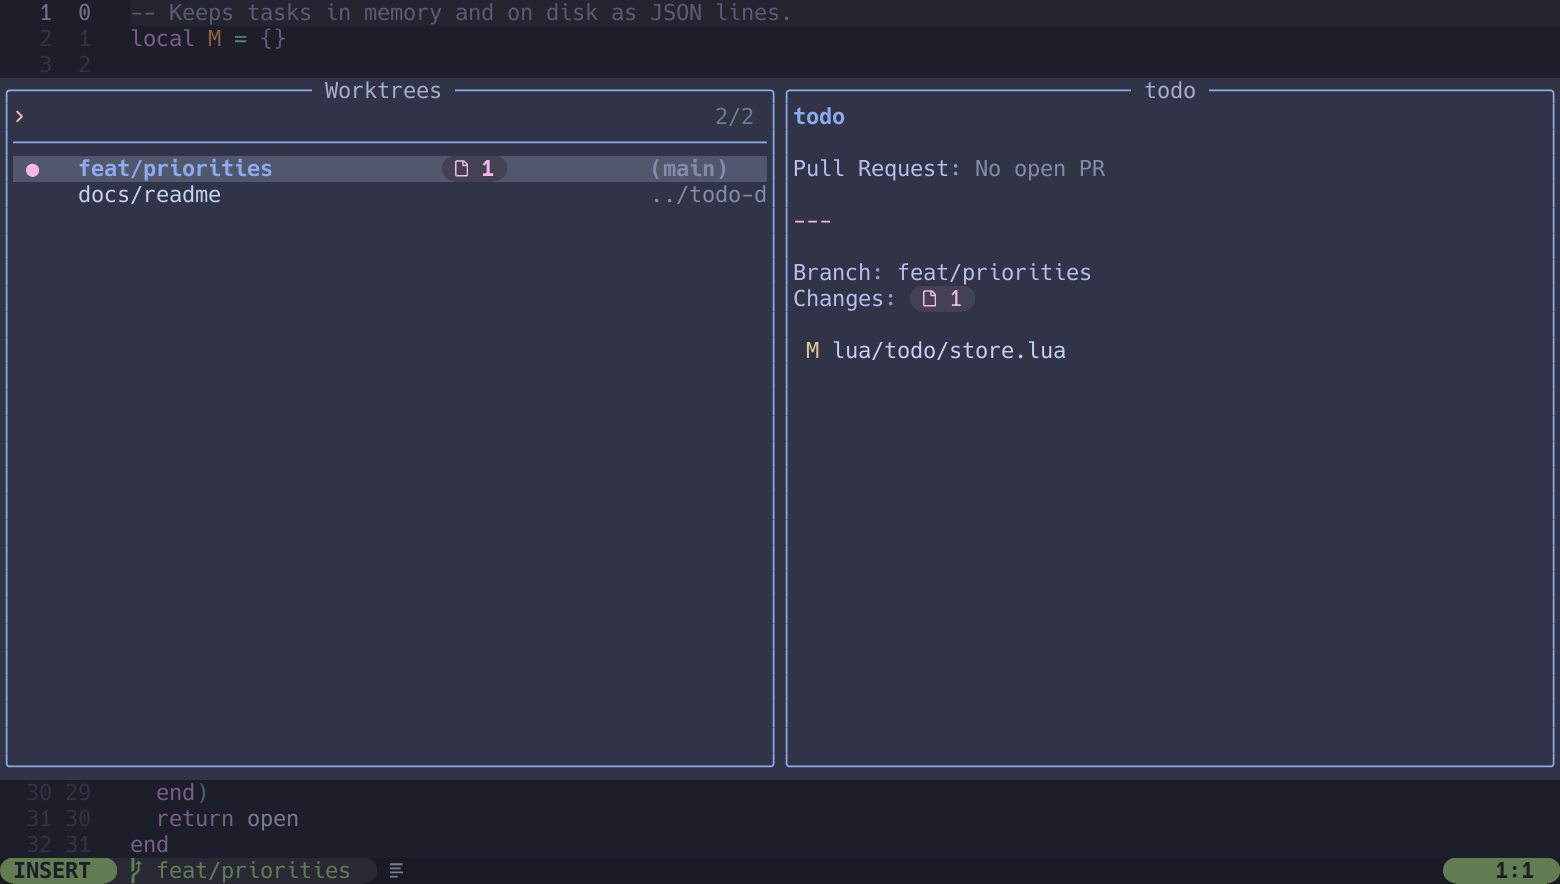
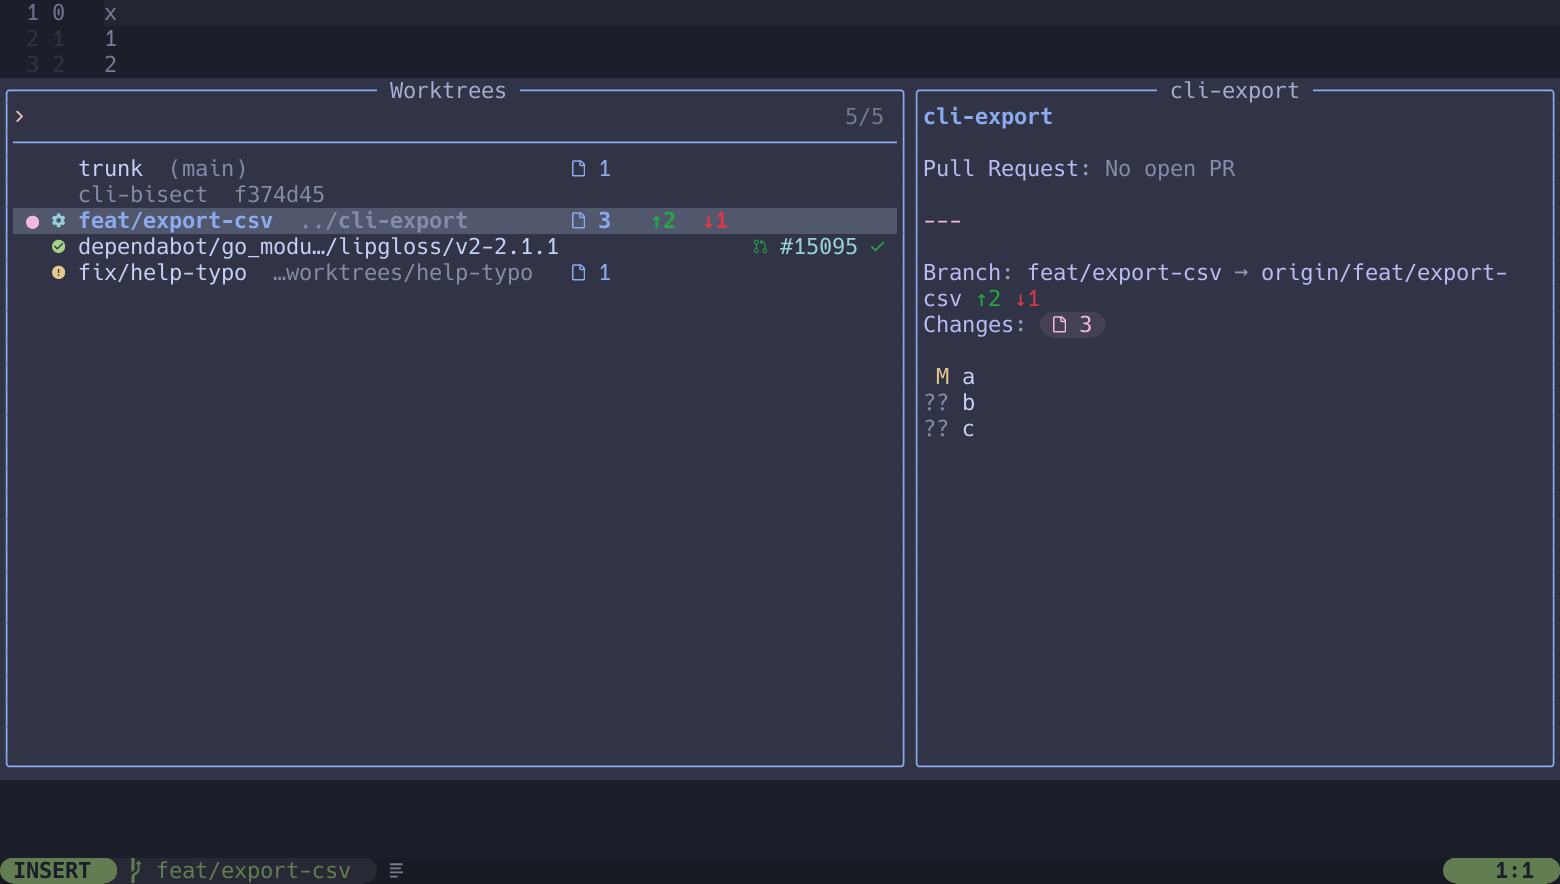
docs: show the new worktree list in the README

diff --git a/README.md b/README.md
@@ -177,7 +177,11 @@ Inside herdr, each worktree has its own herdr tab (Claude and nvim). Outside her
 Use herdr to move around: `Ctrl-b h`/`l` between chat and nvim, `Ctrl-b z` to zoom a pane, `Ctrl-b b` for the sidebar.
 Any worktree git knows about is listed: sibling folders, `.worktrees/`, `.claude/worktrees/`.
 
-![Worktrees panel with the open PR and the git status of the selected worktree](docs/images/worktrees.png)
+![Worktrees panel: one row per worktree with its agent state, changes, sync and PR](docs/images/worktrees.png)
+
+Each row shows, from left to right: `●` the worktree you are in (`○` one open in another tab), the Claude state in
+herdr (working, waiting for you, done), the branch and its folder, uncommitted changes, commits ahead `↑` and
+behind `↓` its upstream, and the PR with the result of its checks. The panel opens on the worktree you are in.
 
 | Key | Action |
 |-----|--------|
